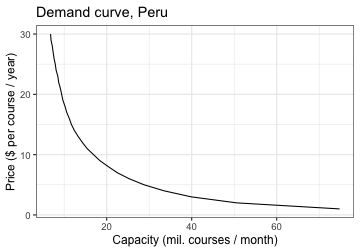
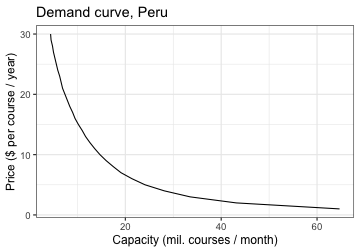
Made several changes: 1. Increased phase 3 probability to 0.5 2. Added new .csv file with updated list of candidates 3. Coded up new benefit function allowing for everything from linear to high benefits with the first few vaccines 4. Updated vignettes to new version 5. Started README.md file

diff --git a/README.md b/README.md
@@ -1,0 +1,9 @@
+# vaccineEarlyInvest
+
+This is an R package that helps determine investments to accelerate access to a Covid-19 vaccine. It provides tools to compute the optimal portfolio of investments for a country that wants to buy production capacity before the end of clinical trials. These tools follow the analysis and the model by the [AcceleratingHT](www.acceleratinght.org) team.
+
+## Usage
+
+The vignette `doc/countryPorfolio.html` gives examples of how to use the package to determine the optimal portfolio for a country, compute the demand curve for a country, and how to modify the default parameters to obtain the optimal portfolio under different assumptions.
+
+Full details about the model can be found [here](www.acceleratinght.org/link_to_appendix).
